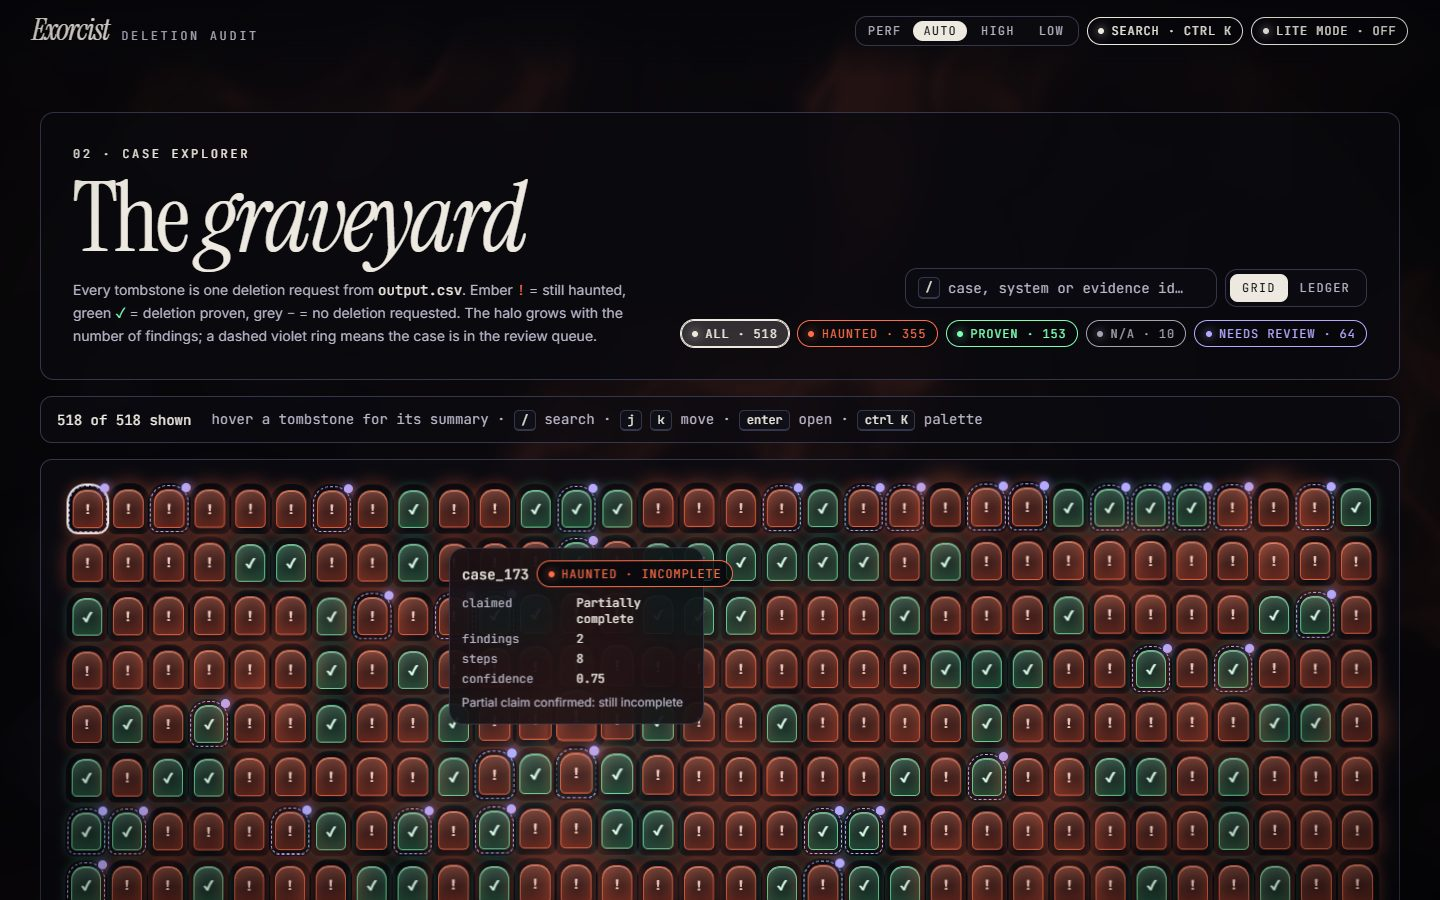
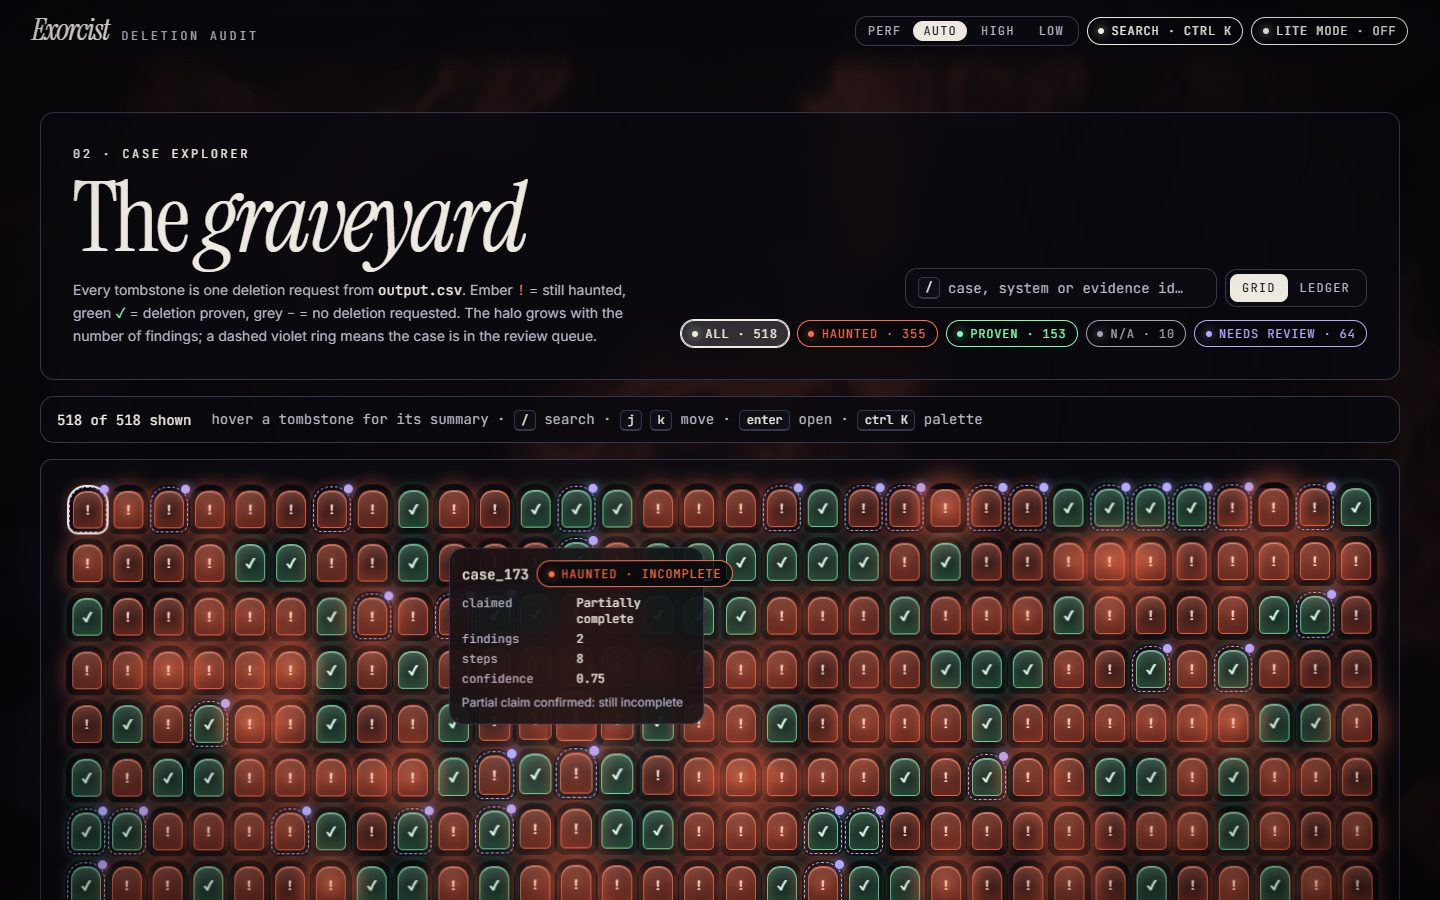
docs(ui): design notes (data->fluid mapping, measured perf, contrast), 60 s demo ending on the purge, README UI section, effects table, final + 1280x720 review screenshots

diff --git a/code/ui/tests/e2e/perf.spec.ts b/code/ui/tests/e2e/perf.spec.ts
@@ -41,7 +41,7 @@ test.describe("13 · performance", () => {
     });
   }
 
-  test("auto mode downgrades 0.5 → 0.35 → 0.25 when frames stay slow", async ({ page }) => {
+  test("auto mode steps 0.5 → 0.35 → 0.25 → CSS gradient when frames stay slow, then offers Lite", async ({ page }) => {
     await page.goto("/");
     await expect.poll(async () => (await fluidStats(page))?.frames ?? 0).toBeGreaterThan(20);
     const start = (await fluidStats(page))!;

diff --git a/code/docs/DESIGN_NOTES.md b/code/docs/DESIGN_NOTES.md
@@ -3,52 +3,99 @@
 ## Intent
 The engine's job is to prove whether deleted data is really gone. The UI tells that story in four beats:
 **summon** (data you can't see is still there) → **graveyard** (every case at once) → **reported vs reality** (the
-legacy claim versus what the evidence shows) → **exorcism** (the plan, visualised step by step, then proven).
+legacy claim versus what the evidence shows) → **exorcism** (the plan, visualised step by step, then proven). Behind
+all of it sits an "ink in water" fluid whose colours are the audit's own numbers.
 
 ## Hard decisions
 1. **Read-only and data-honest.** The UI never computes a verdict. `npm run export-data` converts the engine's
    outputs into static JSON; every number on screen traces to a field listed in `docs/UI_DATA_NOTES.md`. Risk is
-   labelled "heuristic", guessed links carry a "needs review" badge with the queue's own reason text.
+   labelled "heuristic"; guessed links carry a "needs review" badge with the queue's own reason text. An e2e test
+   fails if any dataset number (518, 355, 153, 64, 254, 64.2) appears as a literal in `src/`.
 2. **No real PII on screen or in the bundle.** Hero fragments are generic masked patterns. Subject emails are masked
-   at export time (`abc••@••••.tld`); raw identifier lists are dropped.
+   at export time (`abc••@••••.tld`); raw identifier lists and the customers' request texts are not exported
+   (`npm run test:privacy` scans `public/data`, `src` and `dist/data` and fails on any email, phone, 64-hex hash,
+   dataset name, request text or non-derived field).
 3. **Animation is driven by the plan, not decoration.** The exorcism timeline is generated from the case's
    REMEDIATION steps in output order (disable flows → block restores → delete → redact → anonymise). Redaction bars
    cover exactly the identifier kinds the decision trace says are exposed. Retained records (VERIFY_RECORD_PRESENT)
-   are shielded and never animated. COMPLETE cases get a proof view instead of an exorcism, and NOT_APPLICABLE cases
-   say why nothing happens.
-4. **Status is never colour alone.** Chips carry a dot + text label; tombstones carry a glyph (`!`, `✓`, `–`) plus
-   an aria-label and tooltip text; the ledger view shows everything as text.
-5. **Accessibility.** All interactive elements are buttons or links; keyboard: `/` search, `j`/`k` move, Enter open,
-   Esc close, `ctrl/cmd+K` palette, Space skips the exorcism. A live region announces exorcism steps. Text colours meet
-   ≥ 4.5:1 on both ink and panel (computed WCAG ratios, ink / panel): bone 16.6 / 15.8, green 16.1 / 15.3,
-   muted #A9A5B8 8.4 / 8.0, violet 7.3 / 7.0, ember 7.1 / 6.8, grey 5.8 / 5.5.
+   are shielded and never animated (an e2e test watches them with a MutationObserver). COMPLETE cases get a proof
+   view instead of an exorcism; NOT_APPLICABLE cases say why nothing happens.
+4. **The fluid carries meaning but never information.** Its colours are computed from real numbers (mapping below),
+   but nothing is conveyed *only* by the fluid: it sits behind dark glass, under every text block, and Lite /
+   reduced motion replace it with a still gradient without losing a single number or label.
+5. **Status is never colour alone.** Chips carry a dot + text label; tombstones carry a glyph (`!`, `✓`, `–`) plus
+   an aria-label and tooltip text; runbook rows show the state as text; the ledger view is all text.
+6. **Accessibility.** All interactive elements are buttons or links; keyboard: `/` search, `j`/`k` move, Enter open,
+   Esc clear/close, `ctrl/cmd+K` palette, Space skips the exorcism. Live regions announce search results and exorcism
+   steps. axe-core (WCAG 2.1 A/AA) reports 0 serious/critical issues on hero, grid and case detail, sampled at three
+   fluid frames each.
 
-## Performance choices (the "performance law")
-- **Canvas 2D, no WebGL/three.js.** Typed arrays and `fillRect`; ~2.9k particles on a high-tier laptop, 900 on low
-  tier (`lib/perf.ts` reads cores, memory, pointer type and viewport; DPR capped at 1–1.5).
-- **One loop.** `effects/ticker.ts` multiplexes every canvas callback onto GSAP's ticker; Lenis is driven from the same
-  ticker. The loop detaches when idle, when the tab is hidden, and the hero unsubscribes when scrolled off-screen.
-- **Transform/opacity only** for DOM motion (FLIP zoom, curtain wipe, redaction bars as `scaleX`, ripple as
-  `translate/scale`). No layout-animating properties.
-- **Lazy hero.** The particle engine is a separate 2 KB chunk loaded after first paint; the wordmark exists as real
-  text first.
-- **Bundle:** initial JS 136 KB gzipped + CSS 10 KB gzipped (budget 1.5 MB). Data loads separately:
-  `summary.json` 5 KB gz up front, `details.json` 88 KB gz only when a case or the palette is opened.
-- **Measured:** headless Chrome on the dev machine holds ~143 fps on the hero with 2,880 particles
-  (`npm run shots` prints it). Indicative only — the cap scales down on weaker devices.
-- **Lite mode** (visible toggle, defaults on with `prefers-reduced-motion`): no canvas, grain, glitch, dust, shake or
-  tendrils; all information and states remain.
+## Data → fluid mapping
+The shader (`effects/fluid.ts`) is a domain-warped fbm ("ink in water"). Three uniforms come from the data; the
+renderer eases toward them every frame, so page changes flow rather than cut.
+
+| Uniform | Hero + graveyard | Case page | Source |
+|---|---|---|---|
+| `u_ratio` (ember share; green fills the rest) | INCOMPLETE / (INCOMPLETE + COMPLETE) = 355 / 508 = **0.699** | INCOMPLETE → 1 · COMPLETE → 0 · NOT_APPLICABLE → 0.5 | `summary.json` totals / case status |
+| `u_violet` (active-flow tint) | cases with an `active_data_flow` failure mode / deletion cases = 113 / 508 = **0.222** | min(1, DISABLE_DATA_FLOW steps / 2) | `lie_report.json` / the case's steps |
+| `u_purge` (0 → 1) | 0 | the exorcism: each banished target adds a little; the final seal floods green outward from the seal's position while ember is pushed to the edges; Replay resets it to 0 | GSAP timeline |
+
+Interaction: the cursor stirs the flow (damped velocity), a click drops an ink bloom. The CSS fallback reads the same
+values from `--fluid-ember / --fluid-green / --fluid-violet`, which `setFluidScene()` writes alongside the uniforms.
+Brightness stays low: the brightest measured fluid pixel is rgb(52,35,30) on the landing page and rgb(35,63,51) at the
+end of the purge.
+
+## Contrast (computed WCAG ratios)
+Every text block sits on glass (`.panel` 66 % ink + 14 px blur, `.panel-strong` 78 % + 16 px). Worst case = the panel
+over the brightest fluid pixel measured above:
+
+| Text | on ink | on `.panel` over brightest ember | on `.panel` over brightest purge green |
+|---|---|---|---|
+| bone `#EDE9E0` | 16.6 | 15.3 | 14.3 |
+| green `#7CFFB2` | 16.1 | 14.8 | 13.9 |
+| muted `#B8B4C6` | 9.9 | 9.1 | 8.6 |
+| violet `#B3A8FF` | 9.5 | 8.8 | 8.2 |
+| grey `#A3A0B0` | 7.9 | 7.2 | 6.8 |
+| ember `#FF6B47` | 7.1 | 6.6 | 6.2 |
+
+Minimum UI font size is 12 px; borders are `#34344A`.
+
+## Performance
+Budget: ≥ 50 fps average with the CPU throttled 4× (Chrome DevTools protocol), one animation loop, initial bundle
+< 1.5 MB gzipped. Measured by `tests/e2e/perf.spec.ts` (numbers in `docs/UI_TEST_REPORT.md`).
+
+- **One loop.** `effects/ticker.ts` multiplexes every canvas callback (fluid, hero particles, grid glow, dust) onto
+  GSAP's ticker; Lenis smooth-scroll runs on the same ticker. It detaches when idle or when the tab is hidden; the
+  hero and grid unsubscribe when scrolled off-screen.
+- **Fluid.** Raw WebGL 1, one full-screen triangle, rendered at 0.5× resolution, capped at 60 fps, paused when hidden.
+  **Auto** steps down 0.5 → 0.35 → 0.25 after ~0.75 s of frames slower than 24 ms, and hands over to the CSS gradient
+  after a further ~2.5 s slower than 28 ms at 0.25 — then offers Lite ("running slow · try lite"), never switching
+  silently. **High** pins 0.5 / 5 octaves; **Low** pins 0.25 / 3 octaves (and an explicit choice revives the shader).
+- **Grid.** The breathing glow of high-finding pebbles is one canvas with a cached sprite drawn at ~30 fps; the
+  first version used one CSS animation per pebble, which profiling showed cost ~10× more frame time (16 → 90 fps idle
+  under 4× throttle after the change). The tooltip owns its own state, so hovering re-renders the tooltip, not 518
+  stones. Ripple and tilt are imperative transform writes on ≤ ~30 nodes.
+- **Hero.** Canvas 2D particles (typed arrays, `fillRect`), count from `deviceBudget()` and the Performance control;
+  the module is a 2 KB lazy chunk. Its IntersectionObserver uses a non-zero threshold (an edge-adjacent hero used to
+  count as visible and kept animating behind the grid).
+- **Lite** (visible toggle, defaults on with `prefers-reduced-motion`): no canvas at all, still gradient, opaque glass
+  without backdrop blur, no grain/glitch/dust/shake/tendrils — every number, label, step and state remains. On a
+  software-rendered GPU (SwiftShader) with 4× throttle Lite runs at 144 fps.
+- **Bundle:** initial JS + CSS 148 KB gzipped; fluid and particle modules are lazy chunks of 2.9 KB and 2.1 KB;
+  fonts 364 KB (bundled, offline). Data: `summary.json` up front, `details.json` only when a case or the palette opens.
 
 ## Look
 Ink `#07070B`, bone `#EDE9E0`; spectral green = proven, ember = haunted, violet = active flows. Instrument Serif for
-display (tight tracking, italic accents), Inter for UI, JetBrains Mono for ids — all bundled locally via Fontsource
-(offline). Hairline glass panels (`#0F0F16`, 1 px `#23232F`, 12 px radius), film grain and vignette overlays.
+display (tight tracking, italic accents), Inter for UI, JetBrains Mono for ids — all bundled via Fontsource.
+Frosted-glass pebbles, numbered hairline sections (01 summoning · 02 case explorer · 03 exorcism), odometer counters,
+a heartbeat on the haunted count, magnetic buttons, mask-reveal headline, ink bloom when a case opens.
 
 ## Trade-offs
-- Tombstones are DOM buttons (accessible, focusable) rather than a canvas; 518 elements are cheap, and hover effects
-  touch ≤ 25 nodes imperatively.
+- Tombstones are DOM buttons (accessible, focusable); only their glow is a canvas.
 - The tendril target uses lineage edges when one connects the flow to a remediated record; otherwise it points at
   the records column (lineage only covers some flows).
 - No router dependency: a hash route (`#/case/<id>`) in the Zustand store keeps deep links and the back button.
+- `preserveDrawingBuffer: true` on the fluid costs a little GPU bandwidth but lets the tests read real pixels.
+- Playwright 1.62.1 (1.52's runner hangs on Node 24); tests drive the locally installed Chrome, nothing is downloaded.
 - Dev dependency audit: `postcss-selector-parser` (via Tailwind 3) has a moderate CSS-parsing DoS advisory; it only
   parses our own stylesheet at build time. Vite pinned to 6.4.4 (patched dev-server advisories, ≥ 2 weeks old).

diff --git a/code/docs/DEMO_SCRIPT.md b/code/docs/DEMO_SCRIPT.md
@@ -1,18 +1,20 @@
 # 60-second demo script (UI)
 
-Setup (once): `cd code/ui && npm install && npm run build && npm run preview` → open the printed URL
-(or `npm run dev`). Fullscreen the browser. Everything runs offline from `public/data/`.
+Setup (once): `cd code/ui && npm install && npm run build && npm run preview` → open the printed URL. Fullscreen the
+browser. Everything runs offline from `public/data/`. Optional: open `#/case/case_483` in a second tab for the
+exorcism.
 
 | Time | Do | Say |
 |---|---|---|
-| 0:00 | Land on the hero; sweep the mouse through the dark | "Deleted data hides. My cursor is a flashlight — those are masked identifiers still floating in the systems." |
-| 0:08 | Click | "Summon." Particles form **EXORCIST**; the headline types; counters run up. "518 requests audited: 355 still haunted, 153 proven, 10 not deletion requests — and 64.2% of the legacy workflow's 'complete' claims were false. Every number comes straight from output.csv and lie_report.json." |
-| 0:20 | Scroll to the graveyard; hover a few stones | "Every tombstone is one case. Ember means data still exists, green means deletion proven, the glow is the number of findings, the dashed violet ring is the review queue — guessed links are flagged, not hidden." |
-| 0:28 | Press `/`, type `case_483`, press `j` then Enter (or click the stone) | The stone flies into the case header. "A real case: the workflow said **Complete**." |
-| 0:34 | Scroll to **Reported vs Reality** | The left side glitches "Complete", the curtain reveals **Haunted**: "False 'complete' — an active data flow, a live search entry, an email still exposed in a support ticket and an open restore path." |
-| 0:42 | Click **Perform the Exorcism** | "This animation is driven by the case's actual remediation steps: cut the sync, seal the backup, destroy the search record, black-bar the exposed email. The retained security record keeps its shield — policy says keep it." |
-| 0:52 | Watch the ticks cascade and the seal slam (or press Space to skip) | "Every verification check the plan requires turns green — the engine proved this by simulation." |
-| 0:56 | Click any runbook step | "And every step can explain itself: rule, policy category, the agent that produced it and the evidence chain." |
+| 0:00 | Land on the hero; sweep the mouse through the dark | "Deleted data hides. My cursor is a flashlight — those are masked identifiers still floating in the systems. The ink behind it is the audit itself: ember is the share of cases still haunted, green the share proven." |
+| 0:08 | Click (or Enter) | Particles form **EXORCIST**, the headline reveals, the odometers roll. "518 requests audited: 355 still haunted, 153 proven, 10 not deletion requests — and 64.2 % of the legacy workflow's 'complete' claims were false. Every number comes from output.csv and lie_report.json." |
+| 0:18 | Scroll to the graveyard; hover a few stones | "Every tombstone is one case. The glow is the number of findings, the dashed violet ring is the review queue — 64 guessed links are flagged, not hidden." |
+| 0:24 | Press `/`, type `case_483` | Everything else dims, one stone pops with a ring and glides to centre; the strip reads "1 match: case_483 · INCOMPLETE · 4 findings · press Enter to open". Press Enter. |
+| 0:30 | The stone flies into the case header; scroll to **Reported vs Reality** | "The workflow said **Complete**. The evidence says **Haunted**: an active data flow, a live search entry, identifiers exposed in a support message and an open restore path." The fluid has turned ember. |
+| 0:38 | Click **Perform the Exorcism** | "This animation is the case's actual remediation plan: cut the sync, seal the backup, destroy the search record, black-bar the exposed fields. The retained security record keeps its shield — policy says keep it." |
+| 0:50 | Let the checks cascade and the seal slam | **The purge:** green floods out from the seal and pushes the ember to the edges of the screen. "Every verification the plan requires passes — proven by simulation, nothing touched in any real system. Deleted data does not stay dead unless you prove it." |
 
-Fallbacks: toggle **Lite mode** (top right) on a weak projector — all numbers, labels and steps stay; particles,
-grain and shake go. `ctrl/cmd + K` jumps to any case, system or evidence id.
+Fallbacks: on a weak projector use **Perf · Low** or **Lite mode** (top right) — every number, label and step stays;
+the fluid becomes a still gradient. If the machine struggles, Auto falls back by itself and offers Lite.
+`ctrl/cmd + K` jumps to any case, system or evidence id; Space skips the exorcism to its sealed end state; **Replay**
+resets the purge.

diff --git a/code/ui/src/effects/README.md b/code/ui/src/effects/README.md
@@ -1,17 +1,20 @@
 # Effects — what each one does, how it stays cheap, and its Lite fallback
 
-All canvas work runs on **one loop**: `ticker.ts` subscribes callbacks to GSAP's ticker (GSAP timelines, the canvas
+All canvas and WebGL work runs on **one loop**: `ticker.ts` subscribes callbacks to GSAP's ticker (GSAP timelines, the canvas
 effects and Lenis smooth-scroll all share that single `requestAnimationFrame`). The loop detaches itself when nobody
 is subscribed or when the tab is hidden (`visibilitychange`). DOM animation uses **transform and opacity only**.
 
 | Effect | Where | How it works | Cost control | Lite / reduced-motion fallback |
 |---|---|---|---|---|
+| "Ink in water" fluid (`fluid.ts`, `components/FluidBackground.tsx`) | Global background | Raw WebGL 1 full-screen triangle; domain-warped fbm. Uniforms from real data: `u_ratio` = haunted share (case page: 1 / 0 / 0.5), `u_violet` = active-flow share (case: DISABLE_DATA_FLOW steps / 2), `u_purge` = exorcism wave from the seal; cursor stirs, click blooms. Mapping in `lib/fluid.ts` and `docs/DESIGN_NOTES.md` | 0.5× resolution, 60 fps cap, paused when hidden; Auto steps 0.5 → 0.35 → 0.25 then hands over to the CSS gradient and offers Lite; High / Low pin the scale; lazy 2.9 KB chunk; stats on `window.__exorcist.fluid` for tests | CSS gradient with the same mapping (`--fluid-ember/green/violet`); still (no motion) in Lite |
+| Pebble glow (`screens/Graveyard.tsx`) | Graveyard | High-finding pebbles breathe: one canvas, one cached radial sprite, `lighter` blending, phase per stone; non-matches skipped while searching | ~30 fps on the shared ticker, only while the grid is on screen; replaced 260+ per-stone CSS animations (≈10× cheaper) | not mounted; static CSS halos sized by findings remain |
 | Ghost particles + flashlight (`ghostField.ts`) | Hero | Typed-array particles on a sin/cos drift field drawn with `fillRect`; pointer position (smoothed) brightens nearby particles and reveals masked PII fragments within a radius | count from `deviceBudget()` (≈900 / 2200 / 3600 cap by tier), DPR capped at 1–1.5, `IntersectionObserver` unsubscribes when the hero is off-screen, constant colour strings + `globalAlpha` (no per-particle allocation), module lazy-loaded after first paint | canvas not mounted; `EXORCIST` rendered as real text |
 | Wordmark summon (`ghostField.summon`) | Hero | Text drawn once on an offscreen canvas, alpha-sampled to target points; particles ease to their targets with a smoothstep ramp | sampling step scales with particle count; done once per resize | wordmark is static text |
 | Masked PII fragments | Hero | Generic patterns only (`k.r••@••••.com`, `••• •• 4417`), jittered 7×4 grid so the light always finds some | ≤28 `fillText` calls, glow only while lit | hidden (decorative) |
 | Counters / typewriter (`components/Motion.tsx`) | Hero | GSAP tweens on a plain object, React renders the number/text | one tween each | final values shown immediately |
 | Film grain + vignette (`styles/index.css`) | Global | Inline SVG `feTurbulence` tile, stepped `transform` keyframes; radial-gradient vignette | fixed layers, no repaint of content | not rendered |
-| Tombstone ripple (`screens/Graveyard.tsx`) | Graveyard | On hover, ≤ ~25 neighbours get an inline `transform` (lift + scale) with a CSS transition | imperative style writes, no React re-render of the 518 stones | no ripple; hover tooltip and focus ring remain |
+| Tombstone ripple + tilt (`screens/Graveyard.tsx`) | Graveyard | On hover, ≤ ~25 neighbours get inline `translate` / `scale` (lift) with a CSS transition; the grid tilts toward the cursor (3D transform) under a soft flashlight | imperative style writes; the tooltip owns its state, so a hover re-renders only the tooltip | no ripple or tilt; hover tooltip and focus ring remain |
+| Search highlight (`styles/index.css`) | Graveyard | Non-matches fade to 8 % and desaturate; ≤ 40 matches scale 1.4 with a pulsing ring; the first match glides to centre (Lenis `scrollTo`) under a sticky result strip | CSS `scale` property + one ring per match | same dim/highlight without the ring pulse; instant scroll |
 | Shared-element zoom (`screens/CaseDetail.tsx`) | Case open | FLIP: the header stone starts at the clicked tombstone's rect and animates `x / y / scale` to identity | one element | instant |
 | Chromatic-aberration glitch | Reported vs Reality | `::before/::after` copies of the text in red/cyan with stepped `transform` keyframes | CSS only | pseudo-elements removed; plain text |
 | Reality curtain | Reported vs Reality | Ink cover `scaleX(1→0)` when the section scrolls into view | transform only | already revealed |

diff --git a/code/README.md b/code/README.md
@@ -92,8 +92,8 @@ held-out check covers tunable parameters only. Identifier-free resources are lin
 
 ## UI — "Exorcist" (code/ui)
 
-A cinematic, read-only front end over the engine's outputs (Vite + React + TypeScript + Tailwind, Framer Motion,
-GSAP, Lenis, Zustand). Fully offline: fonts are bundled, and the UI loads only the static JSON in
+A cinematic, read-only front end over the engine's outputs (Vite + React + TypeScript + Tailwind, raw WebGL, Framer
+Motion, GSAP, Lenis, Zustand). Fully offline: fonts are bundled, and the UI loads only the static JSON in
 `code/ui/public/data/` (committed), so it runs without Python.
 code/ui/public/data/ contains derived engine outputs (statuses, steps, evidence ids, scores, masked emails), not the dataset or its evidence files. `npm run test:privacy` enforces it.
 
@@ -103,19 +103,25 @@ npm install
 npm run dev            # http://localhost:5173
 npm run build          # type-check + production build to code/ui/dist (not committed, not zipped)
 npm run preview        # serve the production build
+npm test               # privacy scan + 56 Playwright end-to-end tests (builds and serves dist itself)
+npm run test:privacy   # scan public/data, src and dist/data for PII / dataset content
+npm run test:e2e       # e2e only; uses a locally installed Chrome/Edge (set CHROME_PATH), no browser download
 npm run export-data    # after re-running `python code/main.py`: code/out + output.csv -> public/data/*.json
-npm run shots          # optional: screenshots to code/docs/ui via a locally installed Chrome/Edge
+npm run shots          # optional: screenshots to code/docs/ui
 ```
 
-Screens (Tier 1): **The Summoning** (canvas particle hero, flashlight reveals masked identifiers, wordmark +
-real counters) · **The Graveyard** (518 tombstones, filters, `/` search, `j`/`k`/Enter, ledger view, `ctrl/cmd+K`
-palette over cases, systems and evidence ids) · **Case file** (shared-element zoom, request, review reasons,
-confidence, heuristic risk, runbook with "why this step exists" from `decision_trace.jsonl`) · **Reported vs
-Reality** (glitching legacy claim vs reconstructed truth and failure modes from `lie_report.json`) · **The
-Exorcism** (GSAP sequence generated from the case's remediation steps; proof view for COMPLETE cases). A visible
-**Lite mode** toggle (default on with `prefers-reduced-motion`) removes particles and effects but keeps every number.
-Details: `docs/UI_DATA_NOTES.md` (every field and its source), `docs/DESIGN_NOTES.md`, `docs/DEMO_SCRIPT.md`,
-`ui/src/effects/README.md`; screenshots in `docs/ui/`.
+Screens (Tier 1): **The Summoning** (particle hero, flashlight reveals masked identifiers, odometer counters) ·
+**The Graveyard** (518 frosted-glass tombstones, glow = findings, filters, `/` search over case ids, system names and
+evidence ids with a pinned result strip, `j`/`k`/Enter, ledger view, `ctrl/cmd+K` palette) · **Case file**
+(shared-element zoom, review reasons, confidence, heuristic risk, runbook with "why this step exists" from
+`decision_trace.jsonl`) · **Reported vs Reality** (legacy claim vs reconstructed truth from `lie_report.json`) · **The
+Exorcism** (GSAP sequence generated from the case's remediation steps, ending in the purge; proof view for COMPLETE
+cases). Behind everything runs an "ink in water" WebGL fluid whose ember/green/violet shares are the real haunted,
+proven and active-flow numbers. Top bar: **Perf** (Auto adapts resolution and falls back to a CSS gradient; High;
+Low) and **Lite mode** (default on with `prefers-reduced-motion`: no canvas, every number kept).
+Details: `docs/UI_DATA_NOTES.md` (every field and its source), `docs/DESIGN_NOTES.md` (decisions, data → fluid
+mapping, performance), `docs/UI_TEST_REPORT.md` (test results and measured fps), `docs/DEMO_SCRIPT.md`,
+`ui/src/effects/README.md`; screenshots in `docs/ui/` (before: `docs/ui/before/`).
 
 ## 60-second demo script
 
